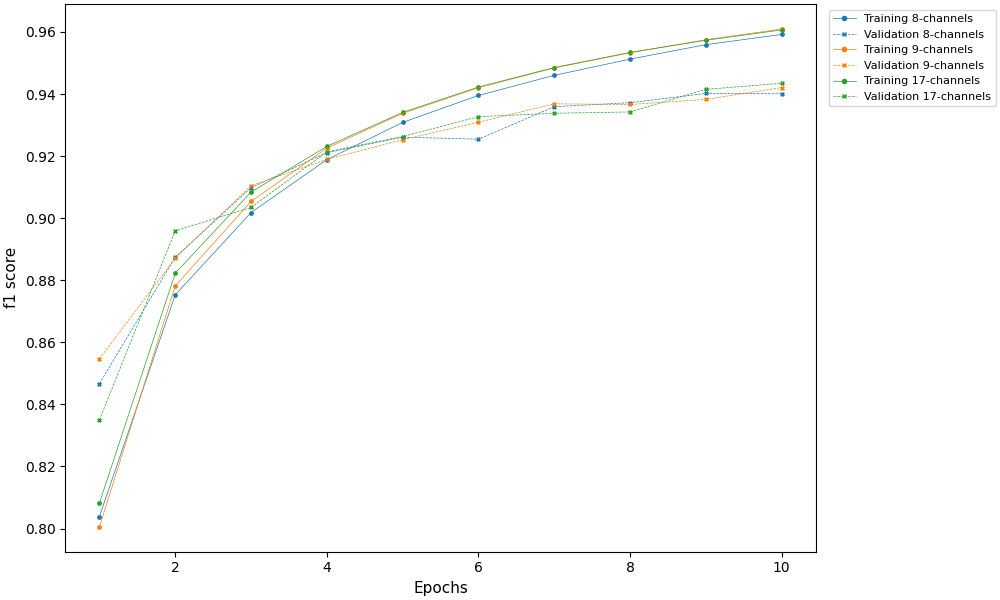
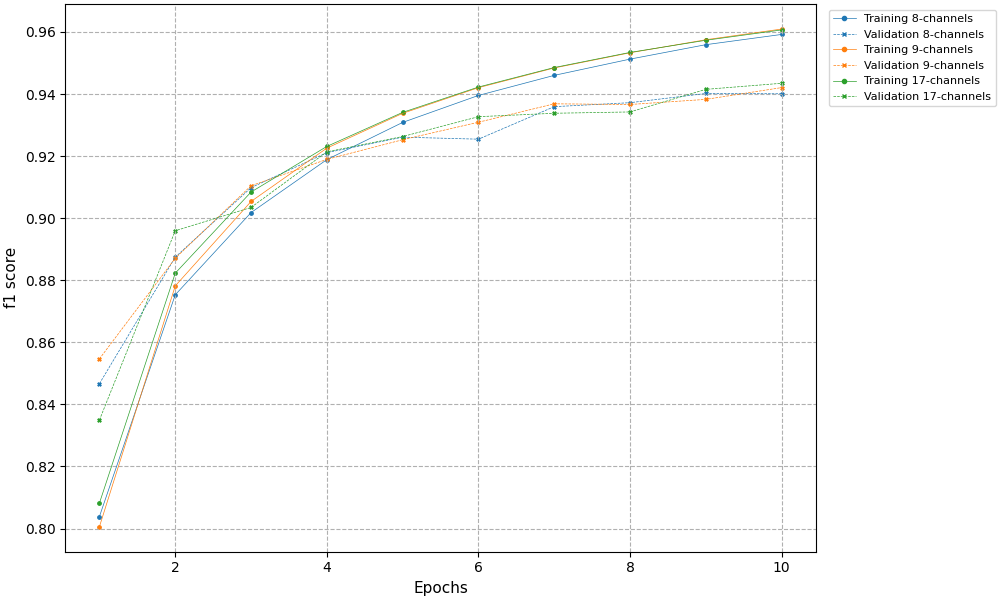
Added gridlines

diff --git a/experiments/utils.py b/experiments/utils.py
@@ -506,6 +506,7 @@ def plot_f1_curves(training_df, output_file = None):
     ax.set_xlabel("Epochs", size = 11)
     ax.set_ylabel("f1 score", size = 11)
     ax.legend(handles = handles, loc = 'upper left', bbox_to_anchor = (1.01, 1), fontsize=8)
+    ax.grid(linestyle='--')
 
     if output_file:
       plt.savefig(output_file)
@@ -543,6 +544,7 @@ def plot_loss_curves(training_df, output_file = None):
 
     ax.set_xlabel("Epochs", size = 11)
     ax.legend(handles = handles, loc = 'upper left', bbox_to_anchor = (1.01, 1), fontsize=8)
+    ax.grid(linestyle='--')
 
 
     ax.set_ylabel("loss", size = 11)
